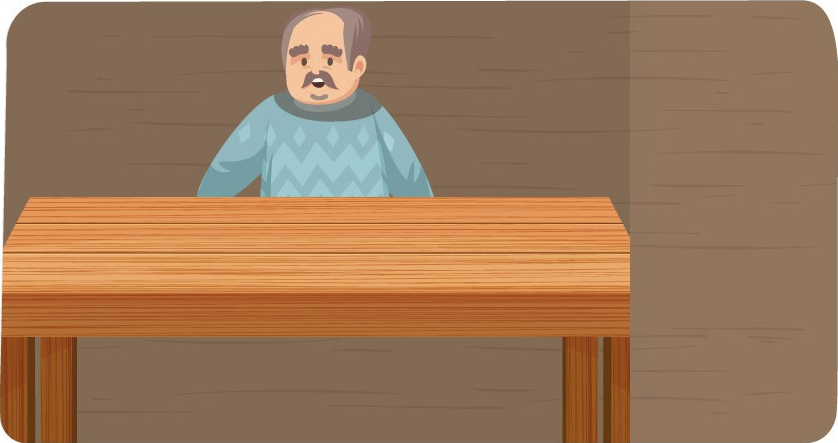
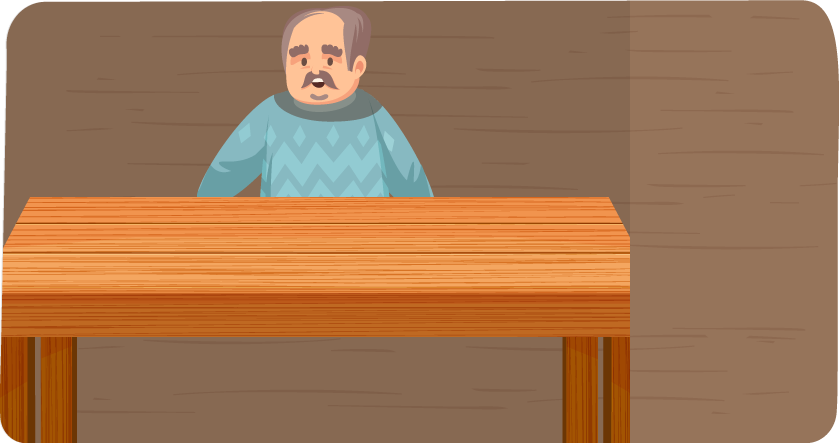
update hand move

diff --git a/www/components/Game/index.ts b/www/components/Game/index.ts
@@ -128,6 +128,8 @@ export default class Yayaya {
           this.yas.forEach(ya => {
               ya.y = position.y;
           });
+          this.hands.left.degree = 0;
+          this.hands.right.degree = 0;
           this.render(true);
       }
   }
@@ -175,16 +177,18 @@ export default class Yayaya {
     const velocity = 30 - this.renderData.velocity * 15;
 
     if (this.hands.left.moveDirection === 'right') {
-      this.hands.left.x = this.hands.left.x + (1 + velocity);
+      this.hands.left.degree = this.hands.left.degree - (1 + velocity);
     } else {
-      this.hands.left.x = this.hands.left.x - (1 + velocity);
+      this.hands.left.degree = this.hands.left.degree + (1 + velocity);
     }
 
     if (this.hands.right.moveDirection === 'right') {
-      this.hands.right.x = this.hands.right.x + (1 + velocity);
+      this.hands.right.degree = this.hands.right.degree - (1 + velocity);
     } else {
-      this.hands.right.x = this.hands.right.x - (1 + velocity);
+      this.hands.right.degree = this.hands.right.degree + (1 + velocity);
     }
+    console.log(this.hands.left.moveDirection);
+    console.log(this.hands.left.degree);
   }
 
    initYa() {
@@ -266,8 +270,8 @@ export default class Yayaya {
       if (withBall) {
           this.drawBall();
       }
-      this.drawYa();
       this.drawHands();
+      this.drawYa();
   }
 
   drawYa() {
@@ -286,8 +290,20 @@ export default class Yayaya {
 
   drawHands() {
     this.ctx.beginPath();
-    this.ctx.drawImage(this.hands.left.image, this.hands.left.x, this.hands.left.y, this.hands.left.imageInfo.width, this.hands.left.imageInfo.height);
-    this.ctx.drawImage(this.hands.right.image, this.hands.right.x, this.hands.right.y, this.hands.right.imageInfo.width, this.hands.right.imageInfo.height);
+    // left hand
+    this.ctx.save();
+    this.ctx.translate(this.hands.left.x + this.hands.left.imageInfo.width, this.hands.left.y);
+    this.ctx.rotate(this.hands.left.degree * Math.PI / 180);
+    // debugger;
+    // this.ctx.drawImage(this.hands.left.image, this.hands.left.x, this.hands.left.y, this.hands.left.imageInfo.width, this.hands.left.imageInfo.height);
+    this.ctx.drawImage(this.hands.left.image, 0, 0, this.hands.left.imageInfo.width * -1, this.hands.left.imageInfo.height);
+    this.ctx.restore();
+    // right hand
+    this.ctx.save();
+    this.ctx.translate(this.hands.right.x, this.hands.right.y);
+    this.ctx.rotate(this.hands.right.degree * Math.PI / 180);
+    this.ctx.drawImage(this.hands.right.image, 0, 0, this.hands.right.imageInfo.width, this.hands.right.imageInfo.height);
+    this.ctx.restore();
     this.ctx.closePath();
   }
 

diff --git a/www/components/Game/hand.ts b/www/components/Game/hand.ts
@@ -1,6 +1,7 @@
 export default class Hand {
   direction: string;
   moveDirection: string;
+  degree: number;
   startX: number;
   startY: number;
   x: number;
@@ -18,19 +19,20 @@ export default class Hand {
       width: imageInfo.width,
       height: imageInfo.height
     }
+    this.degree = 0;
   }
 
   changeMoveDirection() {
-    if (this.direction === 'left' && this.moveDirection === 'right' && this.startX + 35 <= this.x) {
+    if (this.direction === 'left' && this.moveDirection === 'right' && this.degree <= -20) {
       this.moveDirection = 'left';
-    } else if (this.direction === 'left' && this.moveDirection === 'left' && this.startX >= this.x) (
+    } else if (this.direction === 'left' && this.moveDirection === 'left' && this.degree >= 0) (
       this.moveDirection = 'right'
     )
 
-    if (this.direction === 'right' && this.moveDirection === 'right' && this.startX <= this.x) {
-      this.moveDirection = 'left';
-    } else if (this.direction === 'right' && this.moveDirection === 'left' && this.startX - 35 >= this.x) {
+    if (this.direction === 'right' && this.moveDirection === 'left' && this.degree >= 20) {
       this.moveDirection = 'right';
+    } else if (this.direction === 'right' && this.moveDirection === 'right' && this.degree <= 0) {
+      this.moveDirection = 'left';
     }
   }
 }
